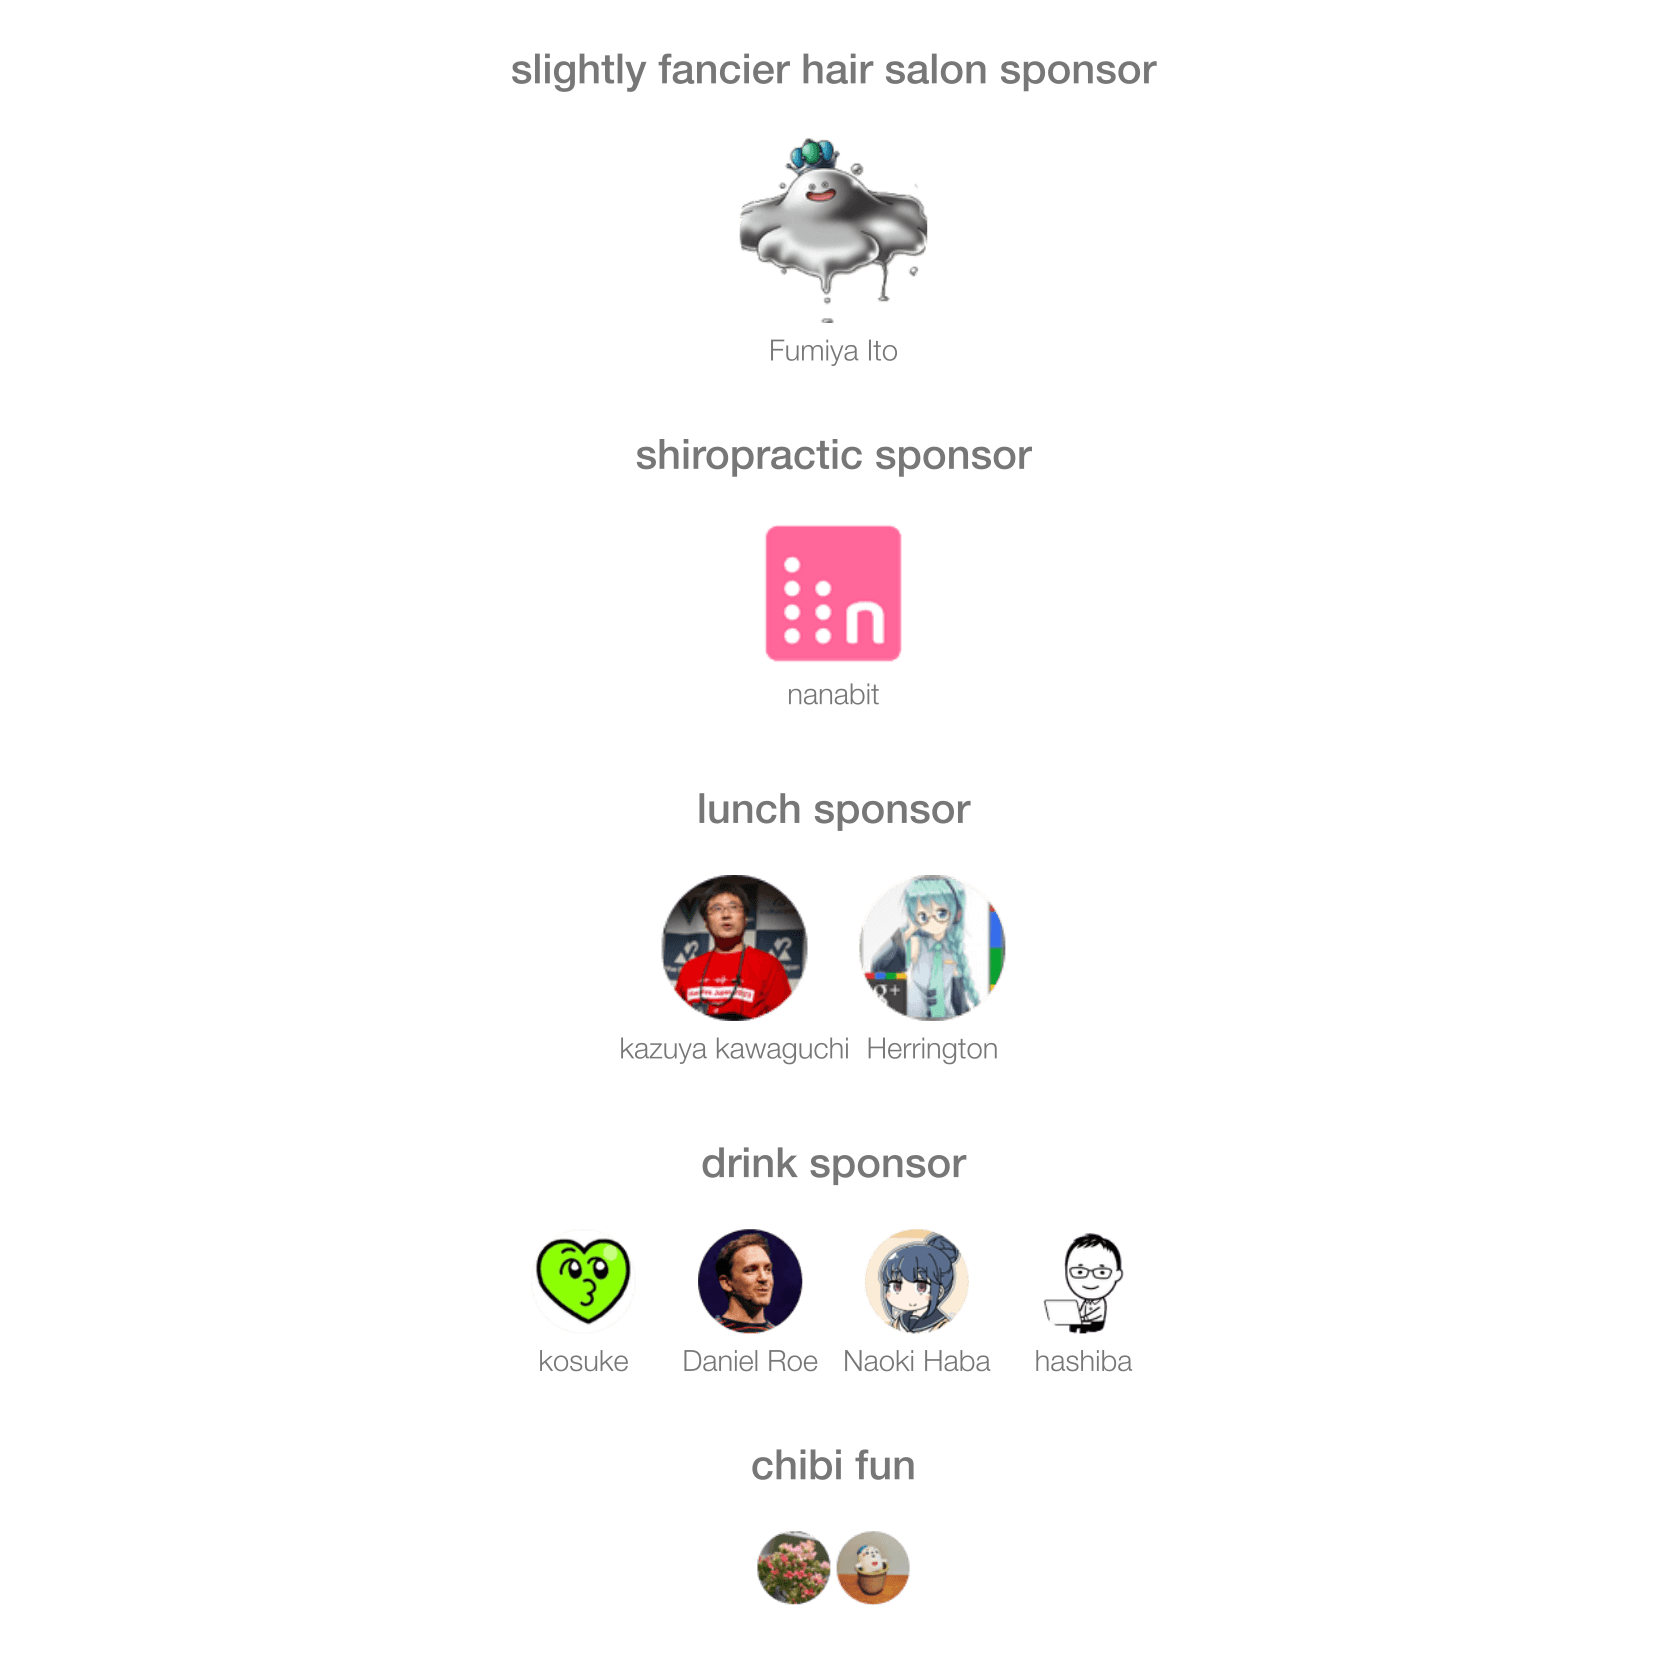
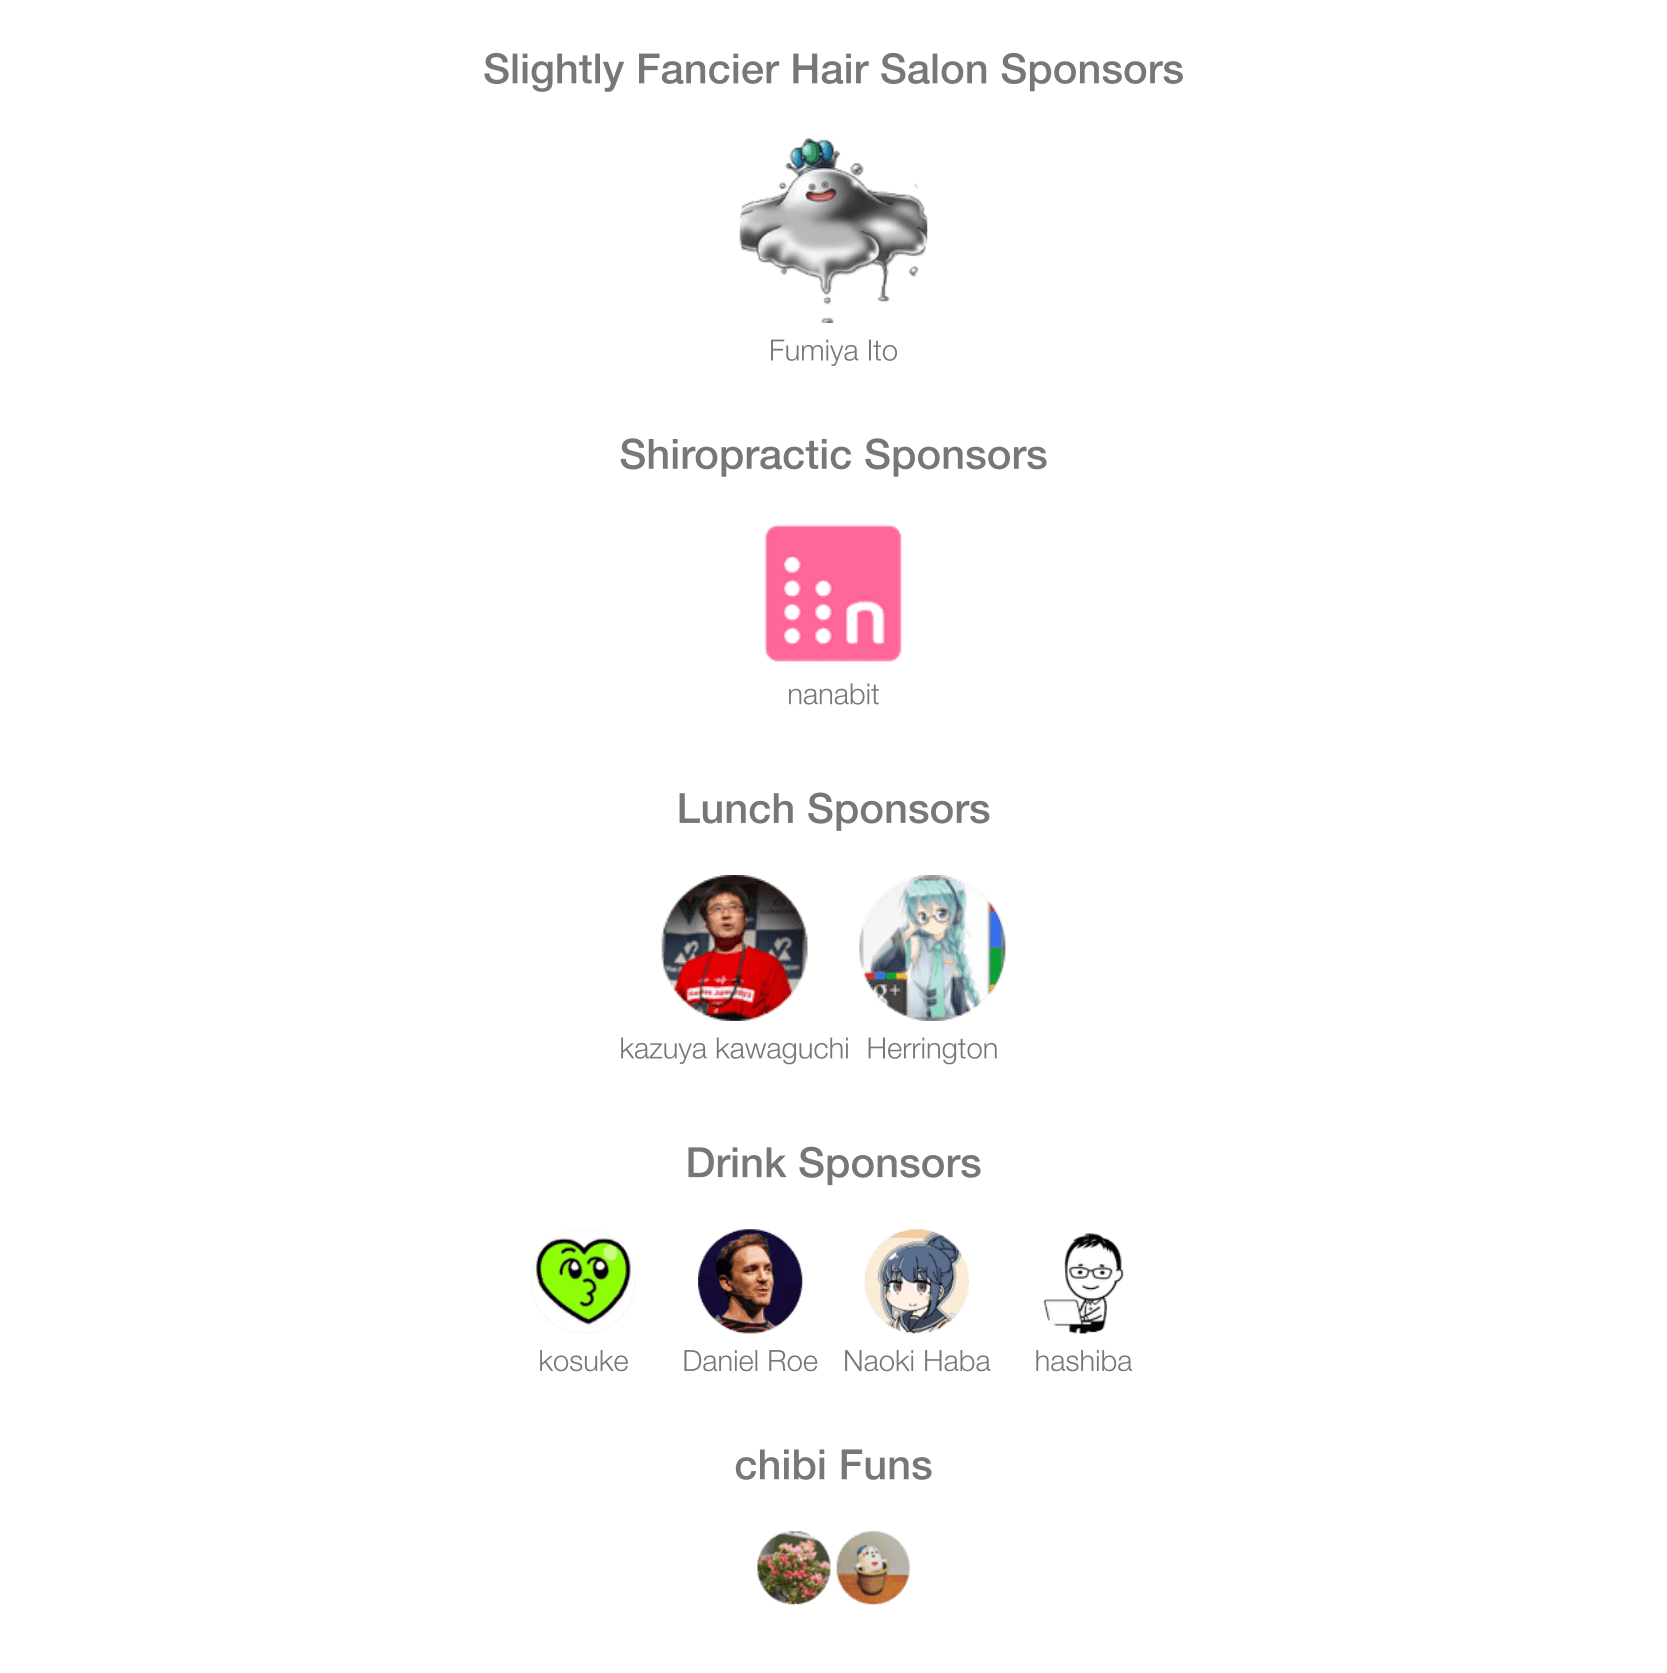
update

diff --git a/sponsorkit.config.ts b/sponsorkit.config.ts
@@ -12,26 +12,26 @@ export default defineConfig({
       preset: tierPresets.xs,
     },
     {
-      title: 'chibi fun',
+      title: 'chibi Funs',
       preset: tierPresets.small,
     },
     {
-      title: 'drink sponsor',
+      title: 'Drink Sponsors',
       monthlyDollars: 4,
       preset: tierPresets.medium,
     },
     {
-      title: 'lunch sponsor',
+      title: 'Lunch Sponsors',
       monthlyDollars: 8,
       preset: tierPresets.large,
     },
     {
-      title: 'shiropractic sponsor',
+      title: 'Shiropractic Sponsors',
       monthlyDollars: 24,
       preset: tierPresets.large,
     },
     {
-      title: 'slightly fancier hair salon sponsor',
+      title: 'Slightly Fancier Hair Salon Sponsors',
       monthlyDollars: 64,
       preset: tierPresets.xl,
     },
